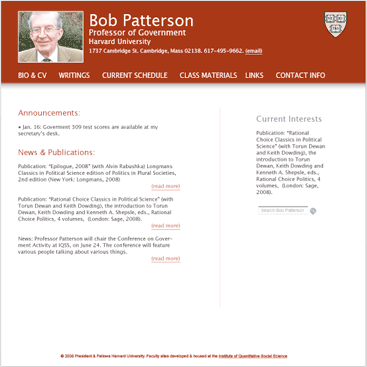
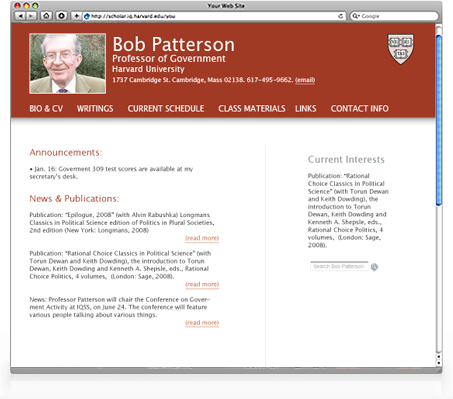
changes to project theme and theme 06

diff --git a/sites/all/themes/scholar_theme_06/scholar-theme-06.css b/sites/all/themes/scholar_theme_06/scholar-theme-06.css
@@ -24,7 +24,7 @@ a:hover {
 
 
 h1, h2, h3, #sidebar-right a, #header {
-    font-family: georgia, serif;
+    font-family: baskerville, georgia, serif;
     font-weight: normal;
     color:#484b63;
     }
@@ -107,6 +107,7 @@ body.no-sidebars #content-wrapper {
     padding-bottom: 2em;
     }
 
+/* removed custom logo for Ken Shepsle
 #header h1 {
     background:transparent url(images/logo.gif) no-repeat scroll left top;
     height:30px;
@@ -120,6 +121,16 @@ body.no-sidebars #content-wrapper {
     height:30px;
     width:467px;
     }
+*/
+
+
+#header h1 {
+  margin: 16px auto 0;
+  text-transform: uppercase;
+  font-size: 40px;
+  text-shadow: #222 0 0 .4em;
+  }
+
 
 #header h2, #header p {
     display:none;
@@ -127,6 +138,7 @@ body.no-sidebars #content-wrapper {
 
 #header a, #header a:visited {
     text-decoration: none;
+    color: #F7F3EA;
     }
 
 #header a:hover {

diff --git a/sites/all/themes/scholar_project/scholar-project.css b/sites/all/themes/scholar_project/scholar-project.css
@@ -118,18 +118,18 @@ li#get-form a {
 #content-row-1 {
   background: url(images/front-row1-bg.png) no-repeat;
   width: 982px;
-  height: 417px;
+  height: 418px;
   padding-top: 1px;
   position: relative;
   }
 
 #content-row-1 .content {
-  width: 388px;
-  height: 305px;
-  margin: 27px auto 0 auto;
+  width: 409px;
+  height: 321px;
+  margin: 19px auto 0 auto;
   background:url(images/front-slideshow-1.png) no-repeat transparent;
-  padding-left: 427px;
-  padding-top: 65px;
+  padding-left: 491px;
+  padding-top: 78px;
   }
 
 #tutorial-link {

diff --git a/sites/all/themes/scholar_base/scholar-base.css b/sites/all/themes/scholar_base/scholar-base.css
@@ -165,6 +165,7 @@ body.cp-toolbar-mini #top {
   line-height: normal;
   background: transparent;
   }
+
 body.cp-toolbar-mini #top ul.links {
   background: url(images/toolbar-mini-tab.png) no-repeat 0 0;
   height: 22px;
@@ -174,7 +175,9 @@ body.cp-toolbar-mini #top ul.links li {
   margin:0;
   background: url(images/toolbar-mini-tab.png) no-repeat 0 0 transparent;
   height: 22px;
-  padding: 2px 6px 4px;
+  line-height: 22px;
+  padding: 0 6px 4px;
+  float:left;
   }
 
 body.cp-toolbar-mini #top ul.links li.first {
